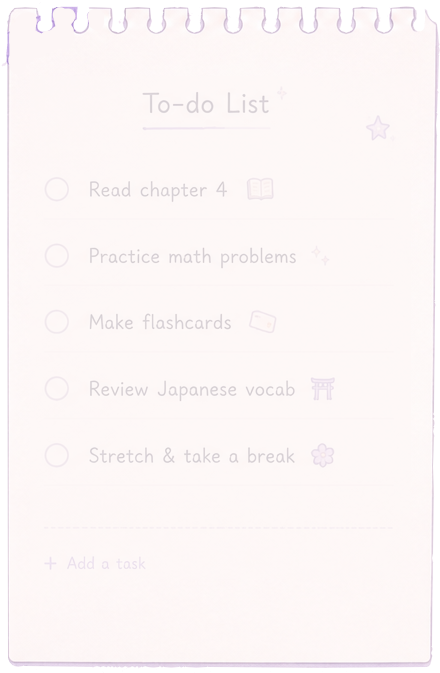
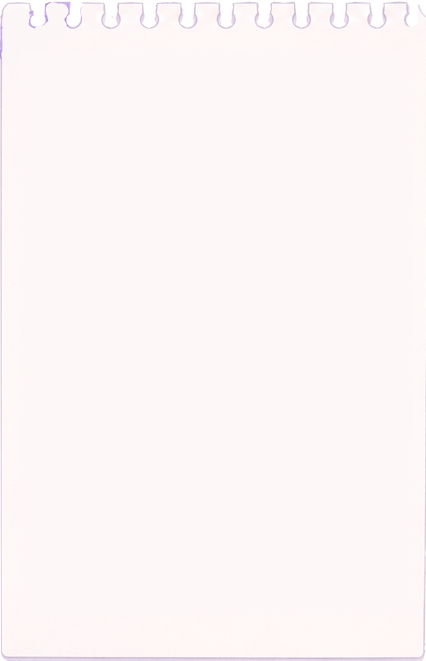
Paperclip design

diff --git a/public/styles.css b/public/styles.css
@@ -330,13 +330,12 @@ li {
 .memo {
 	position: relative;
 	display: inline-block;
-	background: white;
+	/* background: white; */
 	width: 100%;
 	border-radius: 24px;
 
 	margin-bottom: 24px;
 	padding: 1.5rem;
-
 	border: 1px solid var(--border);
 
 	box-shadow: var(--shadow);
@@ -356,7 +355,7 @@ li {
 }
 
 /* Washi tape */
-.memo::before {
+.memo-pad::before {
 	content: "";
 
 	position: absolute;
@@ -388,9 +387,48 @@ li {
 
 .todo-note {
 	position: relative;
+	padding-top: 48px;
+	content: "";
+	border: none;
+
+	background-image: url("/images/todobg.png");
+	background-size: cover;
+	background-size: 100% auto;
+	background-position: center -2px;
+	background-repeat: no-repeat;
+	min-height: 300px;
+	border-radius: 8px;
+}
+
+/* .todo-note {
+	position: relative;
+
+	background: transparent;
+	padding-top: 70px;
+	border: none;
+	margin-top: 30px;
 }
 
 .todo-note::before {
+	content: "";
+
+	position: absolute;
+
+	top: -18px;
+	left: 0;
+	right: 0;
+	bottom: 0;
+
+	background-image: url("/images/todobg.png");
+
+	background-size: 100% 100%;
+	background-repeat: no-repeat;
+	min-height: 300px;
+
+	z-index: -1;
+} */
+
+/* .todo-note::before {
 	content: "";
 
 	position: absolute;
@@ -404,7 +442,7 @@ li {
 	opacity: 0.15;
 
 	pointer-events: none;
-}
+} */
 
 .checkbox {
 	width: 24px;
@@ -438,6 +476,28 @@ li {
 
 	font-size: 1rem;
 }
+
+.reminder-card::before {
+	content: "";
+
+	position: absolute;
+
+	top: -40px;
+	left: 50%;
+
+	width: 70px;
+	height: 70px;
+
+	transform: translateX(-50%);
+
+	background-image: url("/images/purple-clip.png");
+	background-repeat: no-repeat;
+	background-size: contain;
+}
+
+/* .reminder-card::after {
+	display: none;
+} */
 
 .search-container {
 	position: relative;
@@ -487,20 +547,25 @@ li {
 	text-decoration: line-through;
 }
 
-.todo-note {
-	background: #a2e7b1;
-}
-
 .memo-pad {
 	background: #fdf6f5;
 }
 
 .reminder-card {
 	background: #efdcf3;
+	margin-top: 32px;
+	padding-top: 40px;
 }
 
 .ideas-card {
-	background: #fff8fd;
+	/* background: #fff8fd; */
+	background-color: #fcf9ff;
+
+	background-image:
+		linear-gradient(rgba(180, 160, 240, 0.1) 1px, transparent 1px),
+		linear-gradient(90deg, rgba(180, 160, 240, 0.1) 1px, transparent 1px);
+
+	background-size: 24px 24px;
 }
 
 footer {
@@ -562,7 +627,8 @@ footer p {
 
 .memo-title,
 .idea-title,
-.reminder-title {
+.reminder-title,
+.todo-title {
 	width: 100%;
 
 	border: none;
@@ -578,7 +644,8 @@ footer p {
 
 .memo-content,
 .idea-content,
-.reminder-content {
+.reminder-content,
+.todo-content {
 	width: 100%;
 
 	border: none;

diff --git a/src/components/TodoNote.jsx b/src/components/TodoNote.jsx
@@ -1,19 +1,73 @@
 import React, { useState } from "react";
 import { BrushCleaning } from "lucide-react";
 
-function TodoNote() {
+function TodoNote(props) {
+	const [editing, setEditing] = useState(
+		props.title === "" && props.content === "",
+	);
+
+	function handleDelete() {
+		props.onDelete(props.id);
+	}
+
+	function finishEditing() {
+		setEditing(false);
+	}
+
 	return (
-		<div className="memo todo-note">
+		<div
+			className="memo todo-note"
+			onBlur={(e) => {
+				if (!e.currentTarget.contains(e.relatedTarget)) {
+					setEditing(false);
+				}
+			}}
+		>
 			{/* <span className="memo-corner">🌙</span> */}
 
-			<h2>Today's Tasks</h2>
+			{editing ? (
+				<>
+					<input
+						className="todo-title"
+						value={props.title}
+						placeholder="Untitled Todo"
+						onChange={(e) => props.onUpdate(props.id, "title", e.target.value)}
+						onBlur={finishEditing}
+						onKeyDown={(e) => {
+							if (e.key === "Enter") {
+								e.preventDefault();
+								finishEditing();
+							}
+						}}
+					/>
 
-			<ul className="todo-list">
-				<li>☐ Finish React project</li>
-				<li>☑ Buy strawberries</li>
-				<li>☐ Practice Japanese</li>
-				<li>☐ Water plants</li>
-			</ul>
+					<textarea
+						className="todo-content"
+						value={props.content}
+						placeholder="Write something..."
+						onChange={(e) =>
+							props.onUpdate(props.id, "content", e.target.value)
+						}
+						onBlur={finishEditing}
+					/>
+				</>
+			) : (
+				<>
+					<h2 onClick={() => setEditing(true)}>
+						{props.title || "Untitled Todo"}
+					</h2>
+
+					<p onClick={() => setEditing(true)}>
+						{props.content || "Click to edit..."}
+					</p>
+				</>
+			)}
+
+			<BrushCleaning
+				className="clean"
+				size={30}
+				onClick={() => props.onDelete(props.id)}
+			/>
 		</div>
 	);
 }

diff --git a/src/components/ReminderCard.jsx b/src/components/ReminderCard.jsx
@@ -23,7 +23,8 @@ function ReminderCard(props) {
 				}
 			}}
 		>
-			<img src="/images/ringing-bell.png" className="reminder-corner" alt="" />
+			{/* <img src="/images/ringing-bell.png" className="reminder-corner" alt="" /> */}
+			<img src="/images/faint-moon.png" className="memo-corner" alt="" />
 			{/* <span className="memo-corner">✨</span> */}
 
 			{editing ? (

diff --git a/src/components/IdeaCard.jsx b/src/components/IdeaCard.jsx
@@ -23,7 +23,8 @@ function IdeaCard(props) {
 				}
 			}}
 		>
-			<img src="/images/witch-hat.png" className="memo-corner" alt="" />
+			{/* <img src="/images/witch-hat.png" className="memo-corner" alt="" /> */}
+			{/* <img src="/images/sparkle.png" className="memo-corner" alt="" /> */}
 			{/* <span className="memo-corner">🔮</span> */}
 
 			{editing ? (
